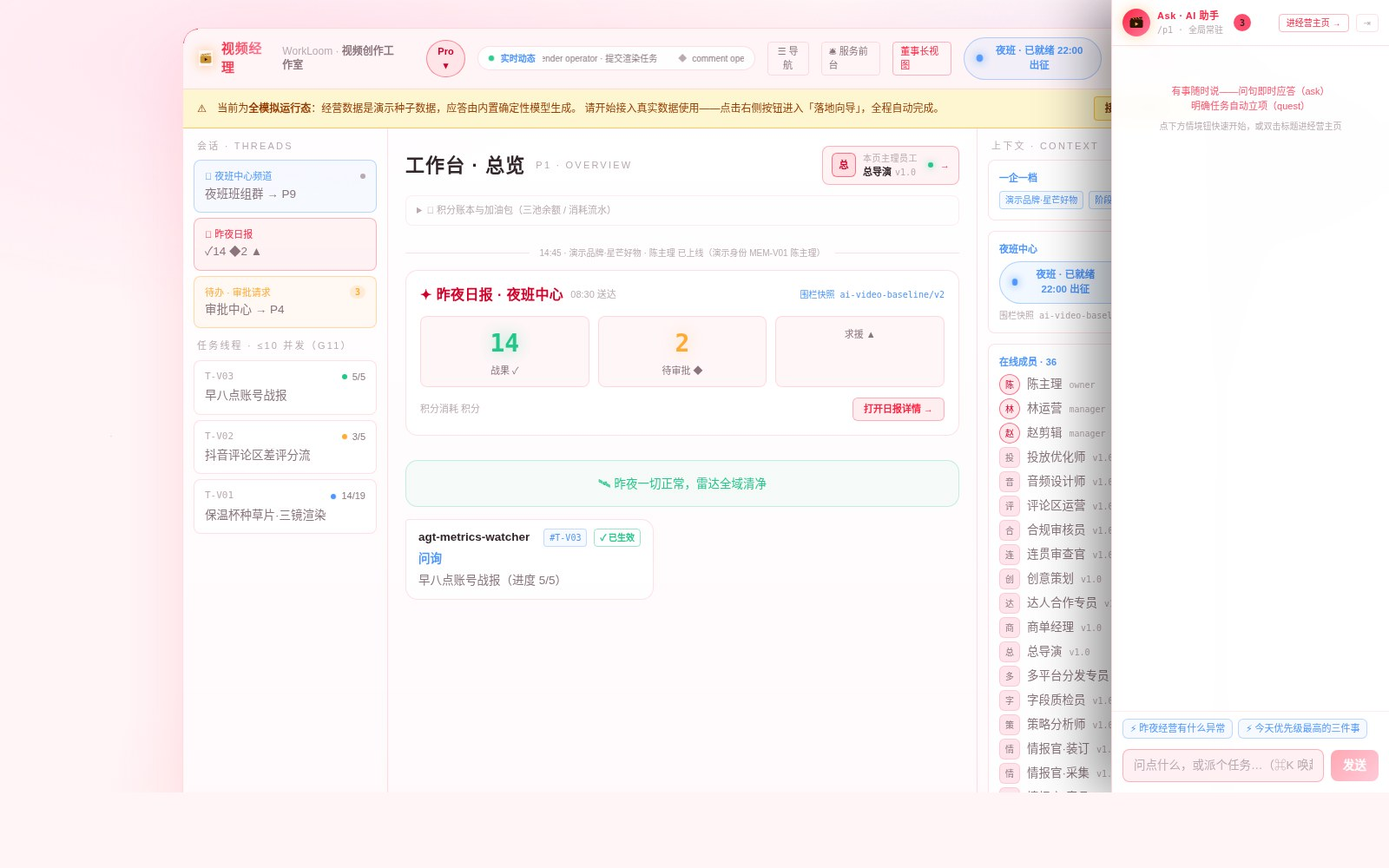
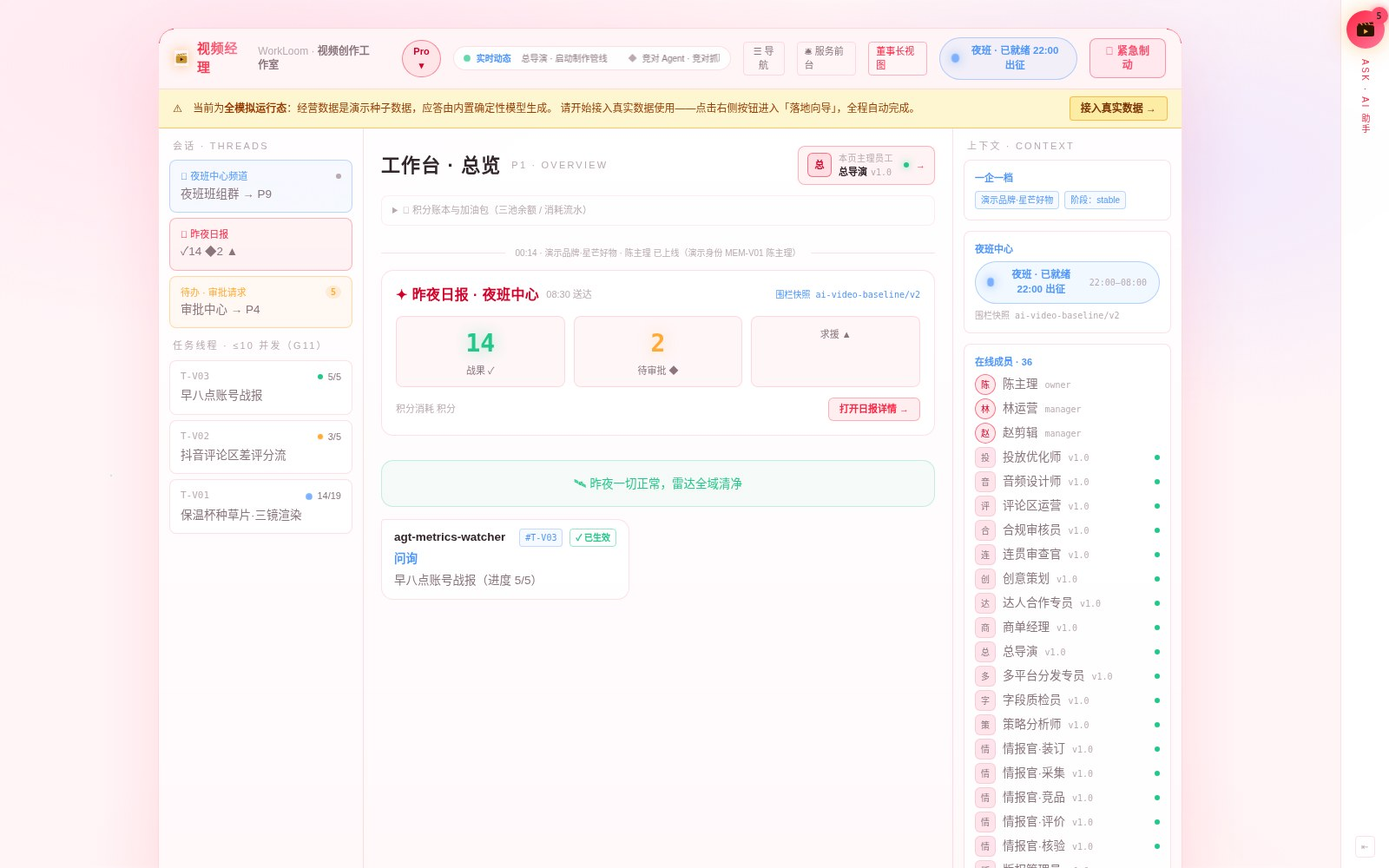
docs(readme): 重构项目介绍——统一标题规范（去除版本号）、结构重排、提升可读性；替换模拟运行态最新实机截图（PC 八页 + 移动五页 + 官网 p1/p9）

diff --git a/README.md b/README.md
@@ -1,6 +1,6 @@
 <div align="center">
 
-# HyperReality · AI视频制作智能经营系统
+# HyperReality · AI 视频制作智能经营系统
 
 **别再抽卡了。把 AI 视频创作，变成一门可控、可复盘、可增长的生意。**
 
@@ -11,6 +11,30 @@
 [![GitHub](https://img.shields.io/badge/repo-hyperreality--system-1B2A4E)](https://github.com/geniusdapeng-collab/hyperreality-system)
 
 </div>
+
+---
+
+## 产品定位
+
+HyperReality 是一套**开源的 AI 视频制作智能经营系统**：它把「AI 生成视频」从碰运气的抽卡游戏，升级为一条有班组、有纪律、有账本的内容生产线。
+
+如果你用 AI 做过视频，这个循环一定不陌生：
+
+> 写一段提示词 → 生成 → 不对 → 改两个字 → 再生成 → 还不对 → 换个模型再试 → 终于有一条能用的 → 发现角色脸变了 → 重来。
+
+一条 30 秒的成片，背后是几十次生成、几百块额度、大半天时间。更要命的是：这次试出来的手感，下次还要重新试——**经验没有沉淀，成本没有下限**。
+
+HyperReality 的答案，是把「生成后筛选」变成「生成前锁定」：
+
+| 抽卡式创作 | HyperReality 的做法 |
+|---|---|
+| 提示词靠灵感，好坏看运气 | **25/30 字段镜头卡**：每个镜头的语言、构图、运镜、光档、情绪、台词全部结构化，生成前就知道会得到什么 |
+| 生成完才知道不行 | **导演评审前置拦截**：6 问评审 + 5 维评分在渲染之前打分，不及格的镜头不允许烧额度 |
+| 角色/商品每次长得不一样 | **定妆照锚定**：角色 8 角度、商品英雄照绑定编号逐镜注入，一致性是纪律而不是祈祷 |
+| 营销内容随口吹牛 | **事实红线闸机**：宣称不得超出官方口径，创意前提与产品真实使用前提必须自洽——一票否决 |
+| 试错经验随风而散 | **组织记忆**：每一次生成、审批、驳回理由都进事件库，下次自动召回 |
+
+抽卡次数从十几次降到一两次，省下的不只是 API 额度，还有最贵的两样东西——注意力和时间。
 
 <!-- CAPABILITIES:BEGIN -->
 <!-- 本区块由 scripts/generate-capabilities.mjs 自动生成（2026-08-29），请勿手改；重跑 pnpm capabilities 更新 -->
@@ -29,194 +53,194 @@
 
 ---
 
-## 🧠 通用模型路由系统（v3.0 · 视频版接入）
+## 核心能力
 
-视频版全面接入底座 v3.0 通用模型路由：**文本 LLM 是加工费、视频渲染是原材料费——两类成本分池分管，渲染前先过质量门和预算闸，不烧冤枉钱。**
+### 一支 25 人的 AI 制作班组
 
-- **vendor 引擎全量收口**：SuperMickey 预生产 14 个 LLM agent（情报/创意/PRD/剧本/分镜/提示词融合/质检修复）全部经 `routeSmart` 路由（`preproduction` 场景 × 降级链 × 真实计量 × `model.call` 事件留痕），fastModel 快速调用自动强制 L1；vendor 目录保持只读
-- **多模态生成池**：渲染走异步任务制（submit→task_id→poll→回填），**Seedance → 可灵 → 即梦三供应商降级链**（gen.degraded 全程留痕）；轮询回填自动推进 `render_jobs` 状态机（`video.render.poll`）
-- **渲染额度台账**：套餐秒数配额（智享按量实扣 / 标准 100s / 智能 500s 每月），用量 = `render.submit` 事件投影不重算；G8 围栏之后再加**预算闸**——超支未确认即熔断并指引加油包
-- **视频场景路由表**（`bundles/ai-video/model-policy.yml`）：评论五分类 L1 谷时批量；预生产/导演评审/提示词融合 L2 谷时排产；账号体检报告 L3 + `bill_to: platform`（售前获客平台成本）
-- **谷时排产**：夜班监控与批量内容生产天然落在 22:00–08:00 谷时窗口，费率 ×0.2
+制作班组 21 人（总导演 / 情报五站 / 创意策划 / 制片人 / 剧本师 / 分镜师 / 提示词工程师 / 质检 / 定妆照 / 渲染师 / 剪辑师……）+ 经营班组 4 人（调研 / 发布 / 看板 / 评论运营），与人类员工**同通讯录、同会话、同记忆**。你对着工作台说一句话，班组自动开工；每个关键节点，一张审批卡推到你面前——**你只在真正需要人味的地方出现**。
 
----
+### 数字 CEO：内容公司的总经理
 
-## 🚀 五分钟跑起来（开发者 / AI Coding Agent 必读）
+数码员工解决的是「手」的问题，数字 CEO 解决「脑」的问题。它统领全部制作与经营班组，做总经理该做的三件事：**做决策、带团队、向你汇报**。
 
-> **⚠ 强制约定：首次启动必须执行 `pnpm preview:all`，否则视为未完成环境初始化。**
-> 一键拉起**三端全貌**并自动固化 Mock 模拟数据（无需任何真实后端/密钥）：
+- **选题与排期**：常规选题按策略自动排产；重大方向调整走六步深度分析（情报 → 案例回忆 → 多方案 → 红队挑刺 → 影响预估 → 建议书）报你拍板
+- **预算与投流**：小额测试自主，超上限必请示，月度复盘进董事会包
+- **团队管理**：每周给每个数码员工打分；连续不达标的出具汰换诊断书 + 新员工设计方案报你批准——**汰换不是删除，是基因重组**
+- **可信机制**：出厂默认关闭，启用须完成六步深度授权；先当 3 天「影子」只模拟不执行，再 7 天试用（权限减半），到期不自动续期；五级权限体系，禁区物理熔断；每个决策都写进不可篡改的事件账
 
-```bash
-pnpm setup && pnpm preview:all
-# pnpm setup = 一键安装：环境检查 → .env → 依赖 → PG 数据库 → 迁移种子 → 可选「操作电脑」桌面栈（幂等）
-```
+### 三条自动化管线，每天自动运转
 
-| 端 | 地址 | 说明 |
-|---|---|---|
-| 🖥 PC 端 · B 端工作台 | http://localhost:3000 | 经营主页 / 任务中心 / 规则中心 |
-| 📱 移动端 · B 端 | http://localhost:3001 | 高保真演示页 + 手机壳容器（自动发现） |
-| 📱 移动端 · C 端 | http://localhost:3002 | AI 服务前台 H5（小程序入口模拟，演示直登） |
+1. **叙事片管线**：选题 → 剧本 → 分镜 → 提示词 → 渲染 → 后期 → 发布
+2. **营销片管线**：情报调研 → 创意 → PRD → 剧本 → 定妆照 → 批量渲染 → 多平台分发
+3. **账号经营管线**：数据采集 → 评论区运营 → 战报生成 → 体检报告
 
-- Mock 数据口径见 [`mock/README.md`](mock/README.md)；验收清单见 [`PREVIEW_CHECKLIST.md`](PREVIEW_CHECKLIST.md)
-- **AI Coding Agent**：进仓先读 [`AGENTS.md`](AGENTS.md) 与 [`.ai-prompt`](.ai-prompt)；全量能力清单 `docs/capability-map.md`；一键能力自检 `pnpm agent:tour`；浏览器自动化指南 `docs/agent-computer-guide.md`
-- **🖐 操作电脑能力（本仓自带 · 可装生产）**：`packages/base/computer-use/` 65 动作三层感知，`pnpm computer:preflight && pnpm computer:smoke` 即验；专用工作站一键安装 + HTTP/MCP 远程驱动见 [`docs/computer-use-production.md`](docs/computer-use-production.md)
-- 日常开发 `pnpm dev` 只起 PC 端（server:8787 + web:5173），保持开发习惯
+渲染走异步任务制（submit → poll → 回填），**Seedance → 可灵 → 即梦三供应商降级链**全程留痕；发布侧用模拟人工节奏的全平台 RPA（抖音 / 小红书 / B 站 / YouTube 已适配），防风控、单账号日上限熔断。
 
+### 夜班模式：你睡了，店还开着
 
----
+夜班锚的不是「AI 的工作时间」——AI 本来就 24 小时全勤——而是**人的离线时间**：
 
-## 一、先算一笔账：抽卡正在吃掉你的利润
+- **触达免打扰**：非 P0 不叫人，一切聚合为早八点战报
+- **权限自降级**：夜间只做巡检、采集、候选回复等防守性动作，对外发布一律留痕可审
+- **跟着流量排期**：按各平台流量曲线排期发布，评论区 30 分钟级巡检承接
+- **成本洼地**：视频渲染与批量生产落在 22:00–08:00 谷时算力窗口，费率低至 2 折——夜间生产、高峰发布
 
-如果你用 AI 做过视频，这个循环你一定不陌生：
+### 通用模型路由：两类成本，分池分管
 
-> 写一段提示词 → 生成 → 不对 → 改两个字 → 再生成 → 还不对 → 换个模型再试 → 终于有一条能用的 → 发现角色脸变了 → 重来。
+**文本 LLM 是加工费，视频渲染是原材料费**——两类成本分池分管，渲染前先过质量门和预算闸，不烧冤枉钱。
 
-一条 30 秒的成片，背后是**几十次生成、几百块额度、大半天时间**。更要命的是：这次试出来的手感，下次还要重新试——**经验没有沉淀，成本没有下限**。
+- 预生产全部 LLM 调用经 `routeSmart` 统一路由（场景 × 降级链 × 真实计量 × 事件留痕），vendor 引擎目录保持只读
+- 渲染额度台账：套餐秒数配额，用量由 `render.submit` 事件投影不重算；围栏之外再加预算闸——超支未确认即熔断并指引加油包
+- 谷时排产：夜班监控与批量生产天然落在谷时窗口，费率 ×0.2
+- 模型自由：任意 OpenAI 兼容端点（DeepSeek / Kimi / 智谱 / OpenAI），按成本 / 时延 / 任务类型三维权衡
 
-| 抽卡式创作 | HyperReality 的答案 |
-|---|---|
-| 提示词靠灵感，好坏看运气 | **25/30 字段镜头卡**：每个镜头的语言、构图、运镜、光档、情绪、台词全部结构化，生成前就知道会得到什么 |
-| 生成完才知道不行 | **导演评审前置拦截**：6 问评审 + 5 维评分在**渲染之前**打分，不及格的镜头根本不允许烧额度 |
-| 角色/商品每次长得不一样 | **定妆照锚定**：角色 8 角度、商品英雄照绑定编号逐镜注入，一致性是纪律不是祈祷 |
-| 营销内容随口吹牛 | **事实红线闸机**：宣称不得超出官方口径，创意前提与产品真实使用前提必须自洽——一票否决 |
-| 试错经验随风而散 | **组织记忆**：每一次生成、每一次审批、每一次驳回理由都进事件库，下次自动召回 |
+### WorkData 数据底座：素材终于有了一个真正的家
 
-**精细化控制的本质，是把「生成后筛选」变成「生成前锁定」。** 抽卡次数从十几次降到一两次，省下的不只是 API 额度，还有你最贵的东西——注意力和时间。
-
-## 二、你的一天，会变成这样
-
-早上 8:00，你端着咖啡坐下，手机上是**早八点战报**：昨天发布的 3 条视频，抖音那条播放 12.6w、完播 41%，小红书那条评论区冒出 17 条新评论——其中 3 条夸赞助手已经按你的口吻回了，1 条问「真的能保温 24 小时吗」被标记为「待你拍板」，还有 1 条疑似投诉已经标红并附好了处置建议。
-
-你抿了一口咖啡，点开那条待拍板的评论，改成自己的语气，一键发出。
-
-上午 9:30，你对着工作台说了一句：**「这周给星芒保温杯出 5 条抖音种草片，预算 50 次渲染额度。」** ——这就是 Quest。系统把目标拆成任务卡：情报官先去扒商品评价和竞品空位，创意策划出主题，制片人出 PRD，剧本师、分镜师、提示词工程师依次上工。每个关键节点，一张审批卡推到你面前：情报档案、创意主题、PRD、镜头提示词、定妆照——**你只在真正需要人味的地方出现**。
-
-中午，5 条片子的渲染脚本已经躺在 CMS 里。你打开「脚本管理」，每条脚本都是结构化的 Markdown，版本链清清楚楚。你改了 S02 镜的一句台词，保存——自动生成 v2 版本，字段校验重新跑过。然后你点了「**批量渲染**」。
-
-下午你去拍了别的素材。渲染师盯着 Seedance 的队列，剪辑师把渲染好的片段合成、上字幕、按平台规格包装。傍晚，发布专员用模拟人工的方式把成片传上抖音和小红书（新平台首发，审批卡会拦一道）。
-
-夜里你睡了。**夜班员工没睡**：每 2 小时采集一次账号数据，每 30 分钟扫一遍评论区，阈值告警、差评分流、早八点战报准时生成。明早 8 点，新的战报又会躺在你的手机上。
-
-这不是科幻片的排期表——这是这套系统里**每天都在自动运转的三条管线**（叙事片 / 营销片 / 账号经营）。
-
-## 三、三种姿势，融入你的创作日常
-
-### Ask · 问答模式 —— 你的创作参谋
-
-> 「我这个类目最近什么选题完播率最高？」「这条片子的钩子换成疑问式会不会更好？」
-
-随口问，系统基于你的素材库、历史数据和组织记忆回答。不问过程，只要答案。
-
-### Quest · 目标模式 —— 你出目标，它出结果
-
-> 「给新品出 3 条小红书测评片，周五前要。」
-
-系统自动拆解成任务卡链条：调研 → 策划 → PRD → 剧本 → 分镜 → 提示词 → 定妆照 → 渲染 → 后期 → 发布 → 监控。断点续跑——中途改主意、改素材、改预算，接着跑，不重来。
-
-### 自动化编排 —— 睡后收入的基础设施
-
-> 「每周一三五晚 8 点发抖音，发完自动盯数据，差评 30 分钟内给我处置建议。」
-
-用触发器把重复性经营动作编排成 7×24 自动流：定时发布 → 数据采集 → 评论分流 → 战报生成。编排一次，天天受益。
-
-## 四、你的素材，终于有了一个真正的家
-
-创作者的电脑里都有一片坟场：`最终版.mp4`、`最终版v2.mp4`、`真的最终版.mp4`……
-
-HyperReality 的 **WorkData 数据底座**把素材管理变成了一等公民：
-
-- **素材库**：商品图、参考图、定妆照、片段、成片，全部带版本链和溯源（来源、授权风险、置信度），sha256 幂等去重——同一张图永远不会存两遍
-- **渲染脚本 CMS**：每条镜头脚本都是版本化的 Markdown，工作台里直接看、直接改，改完自动重跑质量校验；手动单镜渲染、整片批量渲染、全自动连锁（渲染→后期→发布→监控）三档任选
-- **组织记忆**：每条片子的创作过程（哪版钩子被毙了、为什么）都沉淀为可检索的记忆——三个月后接同品类商单，系统记得你上次怎么赢的
-- **全程留痕**：每个镜头、每次审批、每次发布、每条回复都是 append-only 事件，哈希链防篡改。给谁看都有据可查
-
-## 四·五、先体检，再托管：账号快扫，当场出报告
-
-把账号交给系统之前，你可能只有一个问题：**它靠不靠谱？** 答案是：先别托管，先体检。
-
-> **客户旅程（零风险先行）**：新客户默认从「质检模式（Audit-Only）」起步——接上你的社媒账号（抖音/小红书/B站/YouTube 等）后系统**只读扫描、不发一条内容、不回一条评论、不动一分钱投放**，四线巡检（账号健康/内容健康/评论与口碑/转化健康），产出《账号体检报告》（一账号一份+矩阵总览+整改建议，按预估涨粉/线索挽回排序）。你在平台侧人工处置、系统跟踪闭环；看到漏掉的粉和线索之后，再一键切换影子模式（3 天只看不做）→ 正式托管。
-
-**体检分两档**：
-
-- ⚡ **账号快扫**（fast-scan 技能）——授权后 **15–30 分钟**基于 90 天历史数据快照完成四线深度扫描，**当场出《账号快速体检报告》**（售前验货、接入基线）：权重信号与限流风险、断更节律与低效选题、存量负面与高意向咨询遗漏、主页转化组件缺失与线索流失点，Top10 行动清单按预估收益排序、估算口径全标注。
-- 🔍 **持续观察**（账号经营管线）——1–2 周观察期，捕捉只有时间能回答的问题：流量曲线实测、评论响应时长、发布窗口效果、趋势与峰值行为。
-
-**围栏纪律**：体检期一切对外写操作物理 block（`fences/patches/audit-only-patch.yml`，发布/回评论/私信/改简介/投放全阻断），上岗员工全部是只读/分析岗——**系统不动一根手指**。
-
-## 五、夜班员工：你睡了，店还开着
-
-内容生意的残酷在于：**流量不睡觉**。
-
-> **夜班的定义（社媒营销版·流量节律型）**：夜班锚的从来不是"AI 的工作时间"——AI 本来就 24 小时全勤——而是**"人的离线时间"**。它是**人类免打扰时段的系统运行模式**：① 触达上免打扰（非 P0 不叫人，聚合为早八点战报）；② 权限上自降级（夜间只做巡检/采集/候选回复等防守性动作，对外发布一律留痕可审）；③ 社媒的高峰窗口是**流量晚高峰与跨时区**——按各平台流量曲线排期发布、评论区 30 分钟级巡检承接；④ 成本上是洼地——**视频渲染/素材批量生产放在谷时算力窗口**（费率 ≤20%），夜间生产、高峰发布。一句话：**夜班服务的不是"夜晚"，是"人的离线"——流量不睡觉，但你可以睡。**
-
-- **数据看板官**：每 2 小时采集一次播放/点赞/涨粉/转化，阈值异常立刻告警
-- **评论区运营**：每 30 分钟扫一遍评论——夸赞的按你的口吻自动回，咨询的生成候选回复等你拍板，投诉维权类直接标红告警，敏感内容一律不许碰
-- **早八点战报**：昨天发生了什么、今天该干什么，一页纸说清
-
-你睡觉的时候，系统在替你守店。
-
-## 五·五、数字CEO：你的内容公司，有了一位真正的总经理（NEW · v2.0）
-
-### 为什么要加
-
-25 个数码员工入驻之后，主理人们发现了一个新问题：**员工越强，自己越忙**——选题方向要自己定、排期冲突要自己调、每条投流要自己批、评论区风向要盯。数字员工解决的是「手」的问题，没解决「脑」的问题。
-
-一家内容公司的总经理做什么？三件事：**做决策、带团队、向董事会（你）汇报**。数字CEO 把这三件事机器化——它统领全部 25 个数码员工，对内容经营结果负责；你只做三件事：**定方向、拍板、收钱**（这正是本系统开篇的承诺，数字CEO 让它真正闭环）。
-
-### 它在内容制作场景怎么干活
-
-| 场景 | 有了数字CEO 之后 |
-|---|---|
-| 选题与排期 | 常规选题它按策略自动排产；重大方向调整（换赛道/开新号/改人设）走**六步深度分析**（情报→案例回忆→多方案→红队挑刺→影响预估→建议书）报你拍板 |
-| 发布与口径 | 日常发布在围栏内全自动；涉广告法敏感口径/对外承诺，形成「情况-选项-建议-依据」请示单，你 30 秒批完 |
-| 投流与预算 | 小额测试它自主；超预算上限必请示；月度投流复盘进**月度董事会包** |
-| 团队管理 | 每周给每个数码员工打分（表扬/关注/辅导）；连续不达标的（比如剪辑良品率持续垫底），它出具**汰换诊断书+新员工设计方案**报你批准——**汰换不是删除，是基因重组** |
-| 汇报 | 每日晨报（发了什么/数据如何/需要你决策几件）IM+App 双通道推送；你**有空看一眼，没空它也把账号看得好好的** |
-
-### 运行机制（可信比聪明更重要）
-
-- **默认关闭**：数字CEO 出厂即关闭；启用须你亲手完成**六步深度授权**（风险揭示/逐条确认/预算与权限三滑杆/试用计划/身份核验/签署留痕）；
-- **先影子后试用**：先当 3 天「影子」只模拟不执行（你可以对照它的判断和你的判断差多少），再 7 天试用（权限自动减半），**到期不自动续期**，去留你定；
-- **五级权限**：小事它定（L2 公司CEO），矩阵号/大额归集团CEO（L3），涉大钱/对外承诺/围栏放宽必请你（L4），禁区物理熔断（L5）；
-- **经营剧场**：打开系统首页就是经营剧场——数字CEO 与 25 人制作班组的全息形象站在舞台中央，晨报它主动讲，请示它举着等你批；
-- **全链留痕**：它的每个决策、你的每次授权与批准，都写进不可篡改的事件账（哈希链可验）。
-
-### 立即体验
-
-`pnpm db:migrate && pnpm db:seed:video && pnpm dev` → 打开首页即是经营剧场（星芒好物工作室已有一位试用期中的公司CEO）；「董事长视图」可体验授权、裁决、绩效评议与汰换提案全流程。
+- **素材库**：商品图、参考图、定妆照、片段、成片，全部带版本链和溯源（来源、授权风险、置信度），sha256 幂等去重
+- **渲染脚本 CMS**：每条镜头脚本都是版本化的 Markdown，工作台里直接看、直接改，保存自动生成新版本并重跑质量校验；手动单镜渲染、整片批量渲染、全自动连锁（渲染 → 后期 → 发布 → 监控）三档任选
+- **组织记忆**：每条片子的创作过程（哪版钩子被毙了、为什么）沉淀为可检索的记忆——三个月后接同品类商单，系统记得你上次怎么赢的
+- **全程留痕**：每个镜头、每次审批、每次发布、每条回复都是 append-only 五元事件，SHA-256 哈希链防篡改，崩溃重放零丢失
 
 ---
 
-## 六、技术领先性（只讲关键的）
+## 系统截图（模拟运行态实拍）
 
-| 能力 | 一句话 |
+以下截图均来自系统**模拟运行态**（Mock 模式：种子演示数据 + 离线确定性模型），页面顶部琥珀色横幅「当前为全模拟运行态」为系统原生标识。
+
+### PC 端 · B 端工作台
+
+| 经营剧场（默认首页） | 工作台 · 总览 |
 |---|---|
-| **好莱坞级制作引擎** | 融合 SuperMickey 四层架构（剧本→制作→渲染→后期），25/30 字段镜头卡、5 维导演评分、203 个导演级技能库、11 大题材世界 |
-| **25 个数码员工** | 制作班组 21 个（总导演/情报五站/创意/制片/剧本/分镜/提示词/质检/定妆照/渲染/剪辑……）+ 经营班组 4 个（调研/发布/看板/评论），与人类员工同通讯录、同会话、同记忆 |
-| **10 道审批门** | 情报/主题/PRD/定妆照/提示词/渲染/发布/评论……每个关键动作都是原生审批卡，围栏三级授权（自动/审批/禁止），高风险动作永远先过人 |
-| **事件溯源数据底座** | 五元事件 append-only + SHA-256 哈希链（WorkData），「模型可见即已记录」，崩溃重放零丢失 |
-| **Quest 引擎** | 目标自动拆解为任务卡，replay 断点续跑——长链路生产不怕中断 |
-| **全平台 RPA 发布** | 模拟人工上传：抖音/小红书/B站/YouTube 已适配，TikTok/视频号预留；人工节奏防风控，单账号日上限熔断 |
-| **模型自由** | 任意 OpenAI 兼容端点（DeepSeek/Kimi/智谱/OpenAI），按成本/时延/任务类型三维权衡路由；渲染侧 Seedance 2.0，可扩展 Kling/Pika/Runway |
+| ![经营剧场](docs/images/shots/pc-home.png) | ![工作台总览](docs/images/shots/pc-workbench.png) |
 
-## 七、快速开始
+| 审批中心 | 规则与权限 |
+|---|---|
+| ![审批中心](docs/images/shots/pc-approval.png) | ![规则与权限](docs/images/shots/pc-rules.png) |
+
+| 技能中心 | 夜班中心 |
+|---|---|
+| ![技能中心](docs/images/shots/pc-skills.png) | ![夜班中心](docs/images/shots/pc-night.png) |
+
+| 片库 · 渲染脚本 CMS | 落地向导（接入真实数据） |
+|---|---|
+| ![渲染脚本 CMS](docs/images/shots/pc-cms.png) | ![落地向导](docs/images/shots/pc-onboarding.png) |
+
+### 移动端
+
+| B 端移动（经营主页） | C 端 · AI 服务对话 | C 端 · 服务大厅 | C 端 · 工单 | C 端 · 我的 |
+|---|---|---|---|---|
+| ![B端移动](docs/images/shots/mb-b-home.png) | ![C端对话](docs/images/shots/mc-chat.png) | ![C端服务](docs/images/shots/mc-service.png) | ![C端工单](docs/images/shots/mc-tickets.png) | ![C端我的](docs/images/shots/mc-me.png) |
+
+---
+
+## 使用方式
+
+### 三种姿势，融入创作日常
+
+**Ask · 问答模式 —— 你的创作参谋。**「我这个类目最近什么选题完播率最高？」随口问，系统基于你的素材库、历史数据和组织记忆回答。不问过程，只要答案。
+
+**Quest · 目标模式 —— 你出目标，它出结果。**「给新品出 3 条小红书测评片，周五前要。」系统自动拆解成任务卡链条：调研 → 策划 → PRD → 剧本 → 分镜 → 提示词 → 定妆照 → 渲染 → 后期 → 发布 → 监控。断点续跑——中途改主意、改素材、改预算，接着跑，不重来。
+
+**自动化编排 —— 睡后收入的基础设施。**「每周一三五晚 8 点发抖音，发完自动盯数据，差评 30 分钟内给我处置建议。」用触发器把重复性经营动作编排成 7×24 自动流：定时发布 → 数据采集 → 评论分流 → 战报生成。编排一次，天天受益。
+
+### 先体检，再托管
+
+把账号交给系统之前，先别托管，先体检。新客户默认从**质检模式（Audit-Only）**起步：接上社媒账号后系统**只读扫描**——不发一条内容、不回一条评论、不动一分钱投放，四线巡检（账号健康 / 内容健康 / 评论与口碑 / 转化健康）产出《账号体检报告》，看到漏掉的粉和线索之后，再一键切换影子模式 → 正式托管。
+
+- **账号快扫**：授权后 15–30 分钟基于 90 天历史数据快照完成四线深度扫描，当场出报告，Top10 行动清单按预估收益排序
+- **持续观察**：1–2 周观察期，捕捉流量曲线实测、评论响应时长、发布窗口效果等只有时间能回答的问题
+- **围栏纪律**：体检期一切对外写操作物理阻断，上岗员工全部是只读 / 分析岗
+
+---
+
+## 快速开始
+
+### 一键跑起来（推荐）
 
 ```bash
 git clone https://github.com/geniusdapeng-collab/hyperreality-system.git
 cd hyperreality-system
-corepack enable && pnpm install && cp .env.example .env
-pnpm db:migrate && pnpm db:seed:video   # 需要 PostgreSQL 17 + pgvector
-pnpm dev                                # server :8787 / web :5173
+pnpm setup && pnpm preview:all
 ```
 
-## 八、文档
+`pnpm setup` 是一键安装：环境检查 → `.env` → 依赖 → PostgreSQL（docker compose 自动建容器）→ 迁移种子 → 可选「操作电脑」桌面栈，幂等可重复跑。`pnpm preview:all` 一键拉起**三端全貌**并自动固化 Mock 模拟数据（无需任何真实后端 / 密钥）：
 
+| 端 | 地址 | 说明 |
+|---|---|---|
+| PC 端 · B 端工作台 | http://localhost:3000 | 经营剧场 / 任务中心 / 规则中心 |
+| 移动端 · B 端 | http://localhost:3001 | 高保真演示页 + 手机壳容器（自动发现） |
+| 移动端 · C 端 | http://localhost:3002 | AI 服务前台 H5（小程序入口模拟，演示直登） |
+
+> **首次启动必须执行 `pnpm preview:all`**，否则视为未完成环境初始化。Mock 数据口径见 [`mock/README.md`](mock/README.md)；验收清单见 [`PREVIEW_CHECKLIST.md`](PREVIEW_CHECKLIST.md)。
+
+### 手动分步
+
+```bash
+docker compose up -d postgres     # PostgreSQL 17 + pgvector
+cp .env.example .env              # 首次必须（db:* 脚本依赖 --env-file=.env）
+pnpm install
+pnpm db:migrate && pnpm db:seed:video
+pnpm dev                          # server :8787 / web :5173
+```
+
+### 从模拟运行态到真实数据
+
+种子完成后系统即进入**全模拟运行态**：经营剧场（默认首页，职场 / 舞台双视图）、数字 CEO 简报、待决策请示、实况字幕流，全部为演示数据 + 内置确定性模型（零外部依赖）。页面顶部常显琥珀色横幅提示「当前为全模拟运行态」，点击「接入真实数据 →」进入**落地向导**（`/onboarding`）：
+
+1. 环境自检（自动）
+2. 接入真实大模型（DeepSeek / Kimi / 智谱 / OpenAI 预设一键填，真实试调通过才落盘，保存即全链生效免重启）
+3. 登记经营主体
+4. 启用真实模式（横幅熄灭，全程五元事件留痕）
+
+Ask 问询另支持联网实时检索事实面（`ASK_WEB_SEARCH=1`，Bing RSS，免密钥）。
+
+---
+
+## 面向 AI Coding Agent
+
+本仓库对 AI Coding Agent 原生友好，进仓请按以下顺序：
+
+1. **先读 [`AGENTS.md`](AGENTS.md) 与 [`.ai-prompt`](.ai-prompt)**——仓库的强制约定与入场指引；
+2. **首启必跑 `pnpm preview:all`**，未完成视为环境初始化未完成；
+3. **一键能力巡游 `pnpm agent:tour`**（`--full` 追加种子编排 + 全部测试套件 + 发布门禁），全量能力清单见 [`docs/capability-map.md`](docs/capability-map.md)；
+4. **本仓自带「操作电脑」能力**（`packages/base/computer-use/`，65 动作三层感知：L1 浏览器 DOM 级 / L2 全 GUI 语义树 / L3 截图像素级，不依赖任何沙箱）：`pnpm computer:preflight && pnpm computer:smoke` 即验；可装到生产专用工作站，HTTP / MCP 远程驱动见 [`docs/computer-use-production.md`](docs/computer-use-production.md)；
+5. **验证纪律**：改完代码必跑 `pnpm suite`；发布前必跑 `pnpm release:gate`；改事件 / 号源后跑 `pnpm db:verify-chain`；UI 改动必须用浏览器能力实际打开页面截图核对；改了能力面必须跑 `pnpm capabilities` 重新生成导览。
+
+---
+
+## 技术要点
+
+| 能力 | 一句话 |
+|---|---|
+| 好莱坞级制作引擎 | 融合 SuperMickey 四层架构（剧本 → 制作 → 渲染 → 后期），25/30 字段镜头卡、5 维导演评分、203 个导演级技能库、11 大题材世界 |
+| 审批门与围栏 | 情报 / 主题 / PRD / 定妆照 / 提示词 / 渲染 / 发布 / 评论等 10 道原生审批门，围栏三级授权（自动 / 审批 / 禁止），高风险动作永远先过人 |
+| 事件溯源底座 | 五元事件 append-only + SHA-256 哈希链（WorkData），「模型可见即已记录」，崩溃重放零丢失 |
+| Quest 引擎 | 目标自动拆解为任务卡，replay 断点续跑——长链路生产不怕中断 |
+| 全平台 RPA 发布 | 模拟人工上传：抖音 / 小红书 / B 站 / YouTube 已适配，TikTok / 视频号预留；人工节奏防风控，单账号日上限熔断 |
+| 行业 Bundle | 垂直能力包机制：`bundles/ai-video/`（短视频创作域）、`bundles/hotel/`（酒店服务域），围栏 / 技能 / 管线 / UI 随包分发 |
+
+## 仓库结构
+
+| 目录 | 内容 |
+|---|---|
+| `apps/server` | tRPC 服务端（:8787） |
+| `apps/web` / `apps/webc` | B 端 PC 工作台 / C 端 AI 服务前台 H5 |
+| `apps/site` | 官网静态站（含实机截图） |
+| `packages/base` | 底座包：workdata（事件 / RLS）、fence-engine（围栏 DSL）、publish-rpa（全平台 RPA）、computer-use 等 |
+| `bundles/` | 行业 Bundle：`ai-video/`、`hotel/` |
+| `skills/official/` | 自带技能 ×6：industry-entry / product-feedback / demo-mirror / cross-platform-review / deal-flow / ripping-reverse |
+| `scripts/` | 测试套件、种子、发布门禁、能力巡游、三端预览 |
+| `docs/` | 设计规范、能力地图、用户指南、演示页 |
+
+## 文档索引
+
+- [完整能力导览（自动生成）](docs/capabilities.auto.md) ｜ [全量能力清单](docs/capability-map.md)
+- [融合设计（25 员工 / 审批门 / 管线 / 数据模型）](docs/fusion-design.md)
 - [SuperMickey 全量拆解台账](docs/supermickey-decomposition-map.md)
-- [融合设计（25 员工 / 10 审批门 / 管线 / 数据模型）](docs/fusion-design.md)
+- [新客户首次接入完整流程](docs/02-新客户首次接入完整流程.md) ｜ [功能清单 · 用户版](docs/03-功能清单-用户版.md)
+- [操作电脑能力生产部署指南](docs/computer-use-production.md) ｜ [浏览器自动化指南](docs/agent-computer-guide.md)
 - [原底座文档（WorkLoom）](docs/workloom-base-README.md)
 
 ## 许可证
 
 Apache-2.0（vendor/dsh 与 vendor/dsh-im 为 MIT）。
-
-**开箱即运行态**：`db:seed:video` 完成即进入一个内容团队高频重度使用的全模拟运行态——经营剧场（默认首页 `/`，**职场/舞台双视图**：等距 2.5D「片场」里编剧/分镜/剪辑各就各位，绿幕/摄影机/灯架/场记板一应俱全，员工打字/踱步/举手/庆祝全由事件实时驱动，点举手员工原地批准驳回）有数字CEO 简报、员工卫星群（编剧/分镜/素材/排期/评论处置）、待决策请示、实况字幕流，全部为演示数据 + 内置确定性模型（零外部依赖）。页面顶部**常显琥珀色横幅**提示「当前为全模拟运行态」，点击「接入真实数据 →」进入**落地向导**（`/onboarding`）：① 环境自检（自动）→ ② 真实大模型（DeepSeek/Kimi/智谱/OpenAI 预设一键填，**真实试调通过才落盘**，保存即全链生效免重启——剧本/分镜/文案合成即刻转为真实推理）→ ③ 经营主体 → ④ 启用真实模式（横幅熄灭，全程五元事件留痕）。ask 问询另支持联网实时检索事实面（`ASK_WEB_SEARCH=1`，Bing RSS，keyless）——比如直接问「这周站内热播的科普视频都在用什么开头钩子」。
